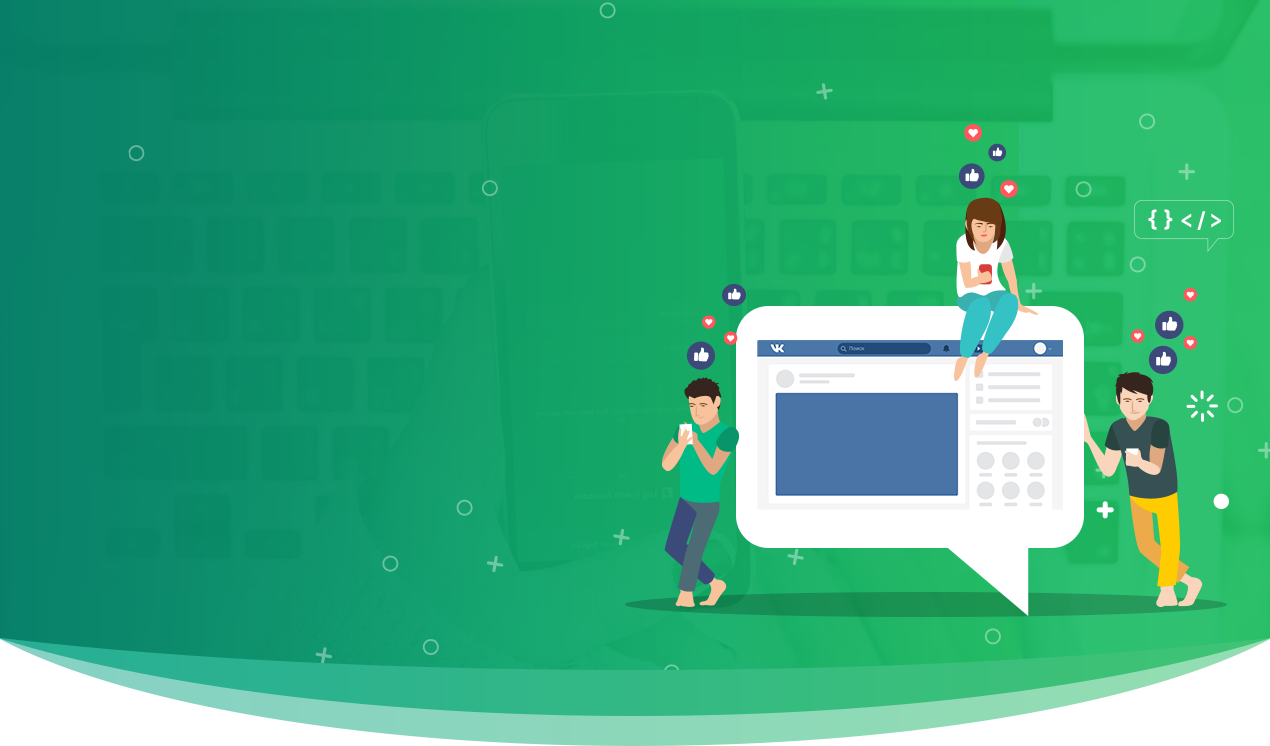
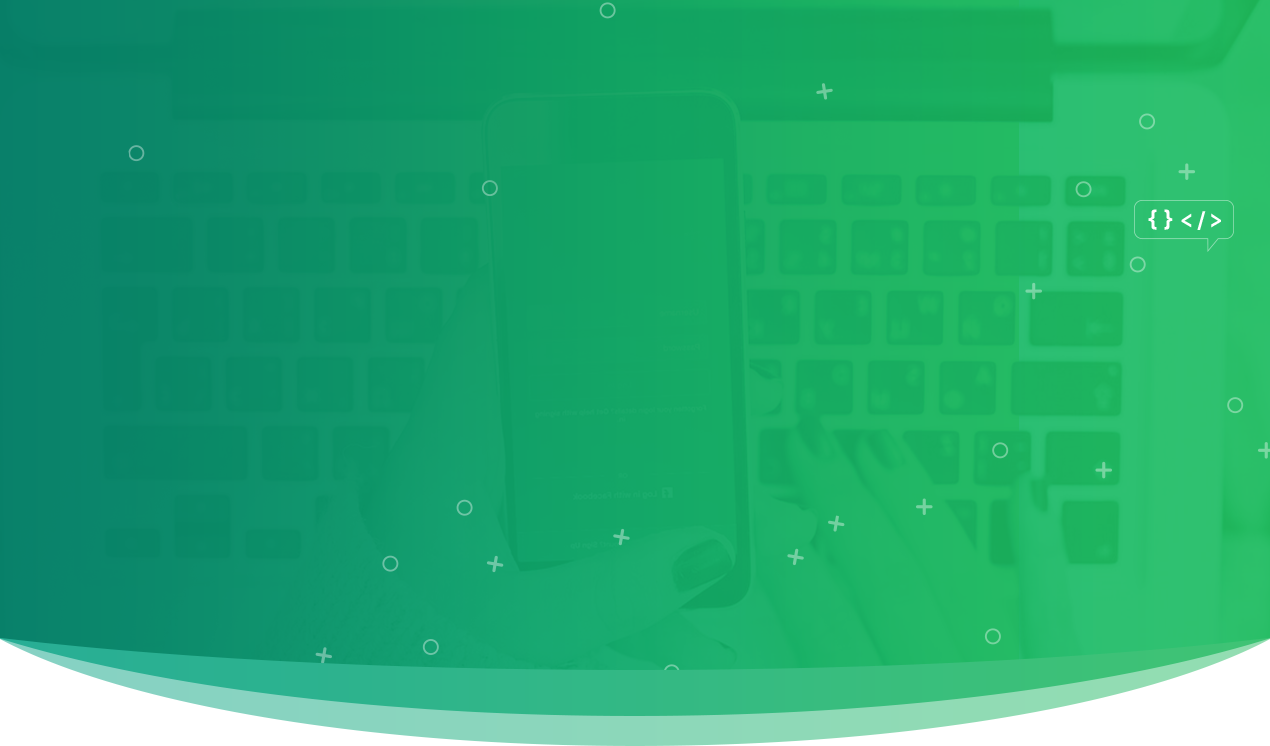
changes

Changed region(s): [[0.4913, 0.185, 0.9827, 0.8324], [0.737, 0.1542, 0.7677, 0.185]]

diff --git a/smm.html b/smm.html
@@ -233,20 +233,33 @@
         <div class="teh teh-smm">
 
             <div class="smm-banner">
+                <div class="smm-banner-picture">
+                    <img src="resources/img/smm/smm-banner-picture.png" alt="">
+                </div>
                 <div class="smm-banner__body">
-                    <div class="smm-banner-title"></div>
-                    <div class="smm-banner-text">
+                    <div class="smm-banner-title">
+                        Результативное продвижение
+                        <b class="smm-banner-title__act">В СОЦИАЛЬНЫХ СЕТЯХ</b>
+                    </div>
+                    <div class="smm-banner-text level-1">
                         <p>
-                            60% ВАШЕЙ АУДИТОРИИ
+                            <span class="smm-banner-text__act">60% ВАШЕЙ АУДИТОРИИ</span>
                             сосредоточено в социальных сетях
                         </p>
+                    </div>
+                    <div class="smm-banner-text level-2">
                         <p>
                             Реализуем индивидуальные SMM-стратегии
                             для достижения целей вашего бизнеса.
                         </p>
                     </div>
+                    <div class="teh-btns">
+                        <a href="#" class="button button--nina button--text-thick button--inverted button--text-upper button--size-s js-payment-teh" data-text="ОСТАВИТЬ ЗАЯВКУ">
+                            <span>О</span><span>с</span><span>т</span><span>a</span><span>в</span><span>и</span><span>т</span><span>ь</span> <span></span><span>з</span><span>а</span><span>я</span><span>в</span><span>к</span><span>у</span>
+                        </a>
+                    </div>
                 </div>
-                <img src="resources/img/smm/smm-banner.png" alt="">
+                <!--<img src="resources/img/smm/smm-banner.png" alt="">-->
             </div>
 
             <div class="js-section">
@@ -548,12 +561,12 @@
 
 
             <div class="scroll-to-reveal js-section">
-                <div class="teh-request">
+                <div class="teh-request smm-request">
                     <div class="teh-request__body">
                         <div class="teh-request__title">Если вы не можете определиться с пакетами</div>
                         <div class="teh-request__subtitle">
-                            Закажите консультацию.
-                            Специалисты расскажут о наших услугах.
+                            <p>Закажите консультацию.</p>
+                            <p>Специалисты расскажут о наших услугах.</p>
                         </div>
 
                         <!--<a href="#" class="teh-btn teh-btn&#45;&#45;big js-feedback-teh" >Оставить заявку</a>-->
@@ -561,8 +574,9 @@
                             <span>О</span><span>с</span><span>т</span><span>a</span><span>в</span><span>и</span><span>т</span><span>ь</span> <span></span><span>з</span><span>а</span><span>я</span><span>в</span><span>к</span><span>у</span>
                         </a>
                     </div>
-                    <div class="teh-request-decor-1"><img src="./resources/img/teh/teh-request-decor-1.png" alt=""></div>
-                    <div class="teh-request-decor-2"><img src="./resources/img/teh/teh-request-decor-2.png" alt=""></div>
+                    <div class="teh-request-decor-1"><img src="./resources/img/smm/decor-package-1.png" alt=""></div>
+                    <div class="teh-request-decor-2"><img src="./resources/img/smm/decor-package-2.png" alt=""></div>
+                    <div class="teh-request-decor-4"><img src="./resources/img/smm/decor-package-3.png" alt=""></div>
                     <div class="teh-request-decor-3"><img src="./resources/img/teh/teh-request-decor-6.png" alt=""></div>
 
                 </div>

diff --git a/resources/css/addition.css b/resources/css/addition.css
@@ -3948,15 +3948,82 @@ text-align: center;
     margin-bottom: 0;
 }
 .smm-banner {
+    position: relative;
     background: url(../img/smm/smm-banner.png) 0 0 no-repeat;
     -webkit-background-size: cover;
     background-size: cover;
     margin-bottom: 40px;
+    padding-bottom: 170px;
+}
+
+.smm-banner-picture {
+    position: absolute;
+    top: 50%;
+    transform:translateY(-50%);
+    right: 30px;
+}
+
+.smm-banner__body {
+    padding: 120px 81px 81px;
+}
+
+.smm-banner-title {
+    color: #ffffff;
+    font-size: 55px;
+    text-transform: uppercase;
+    line-height: 1;
+    margin-bottom: 34px;
+}
+
+.smm-banner-text {
+    color: #ffffff;
+    font-size: 36px;
+    width: 55%;
+    line-height: 1;
+    margin-bottom: 24px;
+}
+
+.smm-banner-text.level-1 {
+    color: #ffffff;
+    font-size: 36px;
+}
+
+.smm-banner-text.level-2 {
+    color: #ffffff;
+    font-size: 28px;
+}
+
+.smm-banner-title__act {
+    font-size: 83px;
+    display: block;
+}
+
+.smm-banner-text__act {
+    font-size: 43px;
 }
 
 .smm-banner img {
     width: 100%;
     height: auto;
+}
+
+.smm-banner .teh-btns  {
+    text-align: left;
+}
+
+.smm-request .teh-request-decor-2 {
+    bottom: -16px;
+}
+
+.smm-request .teh-request-decor-4 {
+
+    position: absolute;
+    bottom: 35%;
+    left: 67%;
+}
+
+.smm-request .teh-request-decor-1 {
+    bottom: -80px;
 }
 
 .teh-offer .teh-text {
@@ -3972,13 +4039,27 @@ text-align: center;
 
 .teh-offer__item {
     width: 25%;
-    padding: 6px 10px;
+    padding: 6px 20px;
+    margin-bottom: 24px;
 }
 
 .teh-offer-card {
     text-align: center;
+    color: #2e2e2e;
 }
 
 .teh-offer-card__img {
     margin-bottom: 14px;
+    margin-bottom: 14px;
+}
+
+.teh-offer-card__title {
+    font-weight: 700;
+    font-size: 20px;
+    text-transform: uppercase;
+    margin-bottom: 14px;
+}
+
+.teh-offer-card__text {
+
 }
